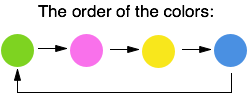
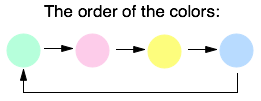
Animated the circles, changed color of circles, dots are on spritesheets

Changed region(s): [[0.0, 0.3158, 1.0, 0.9895], [0.1411, 0.0421, 0.875, 0.1895]]

diff --git a/states/Game.js b/states/Game.js
@@ -8,6 +8,8 @@ ClickIt.Game = function(game) {
 	this.chainText;
 	this.moveX;
 	this.moveY;
+	this.cursors;
+	this.graph;
 };
 
 ClickIt.Game.prototype = {
@@ -26,8 +28,13 @@ ClickIt.Game.prototype = {
 		
 		this.createButtons();
 		this.createLevel();
+		this.graph = this.add.graphics(0, 0);
 		
     	//var overlay = this.add.image(150, 0, 'arrowLeft');
+    	//var overlay = this.add.image(150, 0, 'logo');
+
+    	this.cursors = this.input.keyboard.createCursorKeys();
+    	
 	},
 
 	createButtons: function() {
@@ -43,7 +50,7 @@ ClickIt.Game.prototype = {
 	    		var image = this.assignFirstColor(number);
 
 	    		//  Create a button inside of the 'game' group, with the an image decided above.
-	        	this.buttons[i][j] = this.add.button(i * this.delta + this.moveX, j * this.delta + this.moveY, image, this.actionOnClick, this);
+	        	this.buttons[i][j] = this.add.button(i * this.delta + this.moveX, j * this.delta + this.moveY, image, this.actionOnClick, this, 1, 0, 2);
 
 	        	this.chainMatrix[i][j] = false;
             	this.chainText[i][j] = this.add.text(i * this.delta + this.moveX, j * this.delta + this.moveY, 'Ch: F', { font: '12px Arial', fill: '#000' });
@@ -331,7 +338,7 @@ ClickIt.Game.prototype = {
 	//Använda sig av assignFirstColor eller changeColorInGame?
 	//Använda bubbelSort för att swapa ner raden ovanför. Sätta dem till true och chain-raden till false.
 	rearrangeButtons: function() {
-	    console.log("\nrearrangeButtons() ! ");
+	    //console.log("\nrearrangeButtons() ! ");
 
 	    var col = 7;
 	    while( col >= 0){
@@ -346,6 +353,14 @@ ClickIt.Game.prototype = {
 	    					counterTrue++;
 	    				}
 	    				else{
+	    					//Make buttons invisible
+	    					//this.buttons[col][i].visible = false;
+
+	    					//Call tweenButton
+	    					var temp_y = this.buttons[col][row].y;
+	    					var temp_x = this.buttons[col][row].x
+	    					this.tweenButton( this.buttons[col][i], 0, 0);
+
 	    					//Flytta ner färger enligt counterTrue
 	    					var newColor = this.buttons[col][ i ].key;
 	    					this.buttons[col][ i + counterTrue ].loadTexture(newColor);
@@ -355,8 +370,8 @@ ClickIt.Game.prototype = {
 	    			counterTrue--;
 	    			while( counterTrue >= 0){
 	    				var randomNumber = Math.floor((Math.random() * 4) + 1);
-	    				//var image = this.assignFirstColor(randomNumber);
-	    				var image = 'agnes';
+	    				var image = this.assignFirstColor(randomNumber);
+	    				//var image = 'agnes';
 	    				this.buttons[col][counterTrue].loadTexture(image);
 	    				this.chainMatrix[col][counterTrue] = false;
 	    				counterTrue--;
@@ -385,11 +400,85 @@ ClickIt.Game.prototype = {
 		//this.findChainInRow();
 		//this.findChainInCol();
 
+
+		if( this.input.activePointer.isDown ){
+			console.log("hej hej på dig");
+		}
+
+		if( this.input.mousePointer.mouseDownCallback ){
+			
+		}
+
+		//if( this.input.mousePointer.isDown ){
+			//console.log("down boy down");
+		//}
+		if( this.input.mousePointer.onTap){
+			console.log("down");
+		}
+
+		if( this.input.mousePointer.justReleased() ){
+			//console.log("mousepointer just released!");
+		}
+
+		if( this.chainMatrix[0][0] === true){
+			//console.log("heeeeej");
+			//this.buttons[0][0].animations.add('left');
+
+			//this.buttons[0][0].visible = (false);
+		}
+
+		if (this.cursors.down.isDown){
+        	//this.buttons[0][0].animations.play('left');
+        	this.tweenButton(this.buttons[0][0], 3, 3, 1);
+    	}
+		// Image.events.onKilled
+
+
 		this.rearrangeButtons();
 
 		//Update number of moves
 		this.moves.text = 'Moves: ' + this.move;
 
 		this.printChainMatrix();
-	}
+	},
+
+	// Function for animation of dots
+	// button - the dots to be moved down
+	// newPos - to where it should be moved
+	tweenButton: function (button, newPosX, newPosY) {
+
+		var tempCircle;
+
+		var green = 0xB6FFDB;
+		var pink = 0xFDCCEA;
+		var yellow = 0xFDFD7D;
+		var blue = 0xB8DBFF;
+
+		var color;
+
+		if(button.key == 'green'){
+			color = green;
+		}
+		else if(button.key == 'pink'){
+			color = pink;
+		}
+		else if(button.key == 'yellow'){
+			color = yellow;
+		}
+		else if(button.key == 'blue'){
+			color = blue;
+		}
+
+		// draw a circle
+		tempCircle = this.graph.beginFill(color, 1);
+    	tempCircle = this.graph.drawCircle(button.x+20, button.y+20, 15);
+
+    	// make button under the circle invisible
+		button.visible = false;
+
+		this.add.tween(tempCircle).to({x: newPosY, y: newPosX + this.delta}, 500, Phaser.Easing.Linear.None, true);
+
+		//button.visible = true;
+	} 
 };
+

diff --git a/states/StartMenu.js b/states/StartMenu.js
@@ -8,22 +8,37 @@ ClickIt.StartMenu = function(game) {
 ClickIt.StartMenu.prototype = {
   preload: function() {
     this.load.image('arrowLeft', 'assets/arrowLeft.png');
-    this.load.image('pink', 'assets/pinkdot.png');
-    this.load.image('green', 'assets/greendot.png');
-    this.load.image('blue', 'assets/bluedot.png');
-    this.load.image('yellow', 'assets/yellowdot.png');
+    this.load.spritesheet('pink', 'assets/pinkDot.png', 54, 44);
+    this.load.spritesheet('green', 'assets/greenDot.png', 54, 44);
+    this.load.spritesheet('blue', 'assets/blueDot.png', 54, 44);
+    this.load.spritesheet('yellow', 'assets/yellowDot.png', 54, 44);
     this.load.image('backButton', 'assets/backButton.png');
     this.load.image('stone', 'assets/stone.png');
     this.load.image('agnes', 'assets/agnes.jpg');
+
+
+    //this.load.script('gray', '../phaser/filters/Gray.js');
   },
   create: function() {
-    buttonStart = this.add.button(this.world.centerX-108, 70, 'startButton', this.startGame, this);
-    buttonLevelOne = this.add.button(this.world.centerX-108, 170, 'levelOneImage', this.startGame, this);
+    clickItLogo = this.add.sprite(this.world.centerX-135, 15, 'logo');
+    clickItLogo.scale.setTo(0.7, 0.7);
+
+  
+
+    buttonStart = this.add.button(this.world.centerX-115, 230, 'startButton', this.startGame, this, 1, 0, 2);
+    buttonStart.scale.setTo(0.9, 0.9);
+    buttonLevelOne = this.add.button(this.world.centerX-115, 300, 'levelOneImage', this.startGame, this, 1, 0, 2);
+    buttonLevelOne.scale.setTo(0.9, 0.9);
     //buttonLevelOne.inputEnabled = false;
-    buttonLevelTwo = this.add.button(this.world.centerX-108, 270, 'levelTwoImage', this.startGame, this);
+    buttonLevelTwo = this.add.button(this.world.centerX-115, 370, 'levelTwoImage', this.startGame, this, 1, 0, 2);
+    buttonLevelTwo.scale.setTo(0.9, 0.9);
     //buttonLevelTwo.inputEnabled = false;
-    buttonLevelThree = this.add.button(this.world.centerX-108, 370, 'levelThreeImage', this.startGame, this);
+    buttonLevelThree = this.add.button(this.world.centerX-115, 440, 'levelThreeImage', this.startGame, this, 1, 0, 2);
+    buttonLevelThree.scale.setTo(0.9, 0.9);
     //buttonLevelThree.inputEnabled = false;
+
+    //var gray = game.add.filter('Gray');
+    //clickItLogo.filters = [gray];
   },
 
   startGame: function(pointer) {

diff --git a/states/Preloader.js b/states/Preloader.js
@@ -10,10 +10,12 @@ ClickIt.Preloader.prototype = {
   	this.preloadBar = this.add.sprite(this.world.centerX, this.world.centerY, 'preloaderBar');
     this.preloadBar.anchor.setTo(0.5, 0.5);
     this.load.setPreloadSprite(this.preloadBar);
-    this.load.image('startButton', 'assets/startButton.png');
-    this.load.image('levelOneImage', 'assets/levelOne.png');
-    this.load.image('levelTwoImage', 'assets/levelTwo.png');
-    this.load.image('levelThreeImage', 'assets/levelThree.png');
+    this.load.image('logo', 'assets/ClickIt_with_dots.png');
+
+    this.load.spritesheet('startButton', 'assets/startButton.png', 240, 80);
+    this.load.spritesheet('levelOneImage', 'assets/levelOneButton.png', 240, 80);
+    this.load.spritesheet('levelTwoImage', 'assets/levelTwoButton.png', 240, 80);
+    this.load.spritesheet('levelThreeImage', 'assets/levelThreeButton.png', 240, 80);
   },
 
   create: function() {

diff --git a/states/Boot.js b/states/Boot.js
@@ -14,7 +14,7 @@ ClickIt.Boot.prototype = {
 		this.scale.scaleMode = Phaser.ScaleManager.NO_SCALE;
 		this.input.addPointer();
 
-		this.stage.backgroundColor = '#ddeeee';
+		this.stage.backgroundColor = '#ffffff';
 
 		this.state.start('Preloader');
 	}

diff --git a/index.html b/index.html
@@ -33,6 +33,7 @@
 <body>
 
     <div id="header"></div>
+    <div id="content"></div>
     <div id="gameContainer"></div>
 
     <script type="text/javascript">
